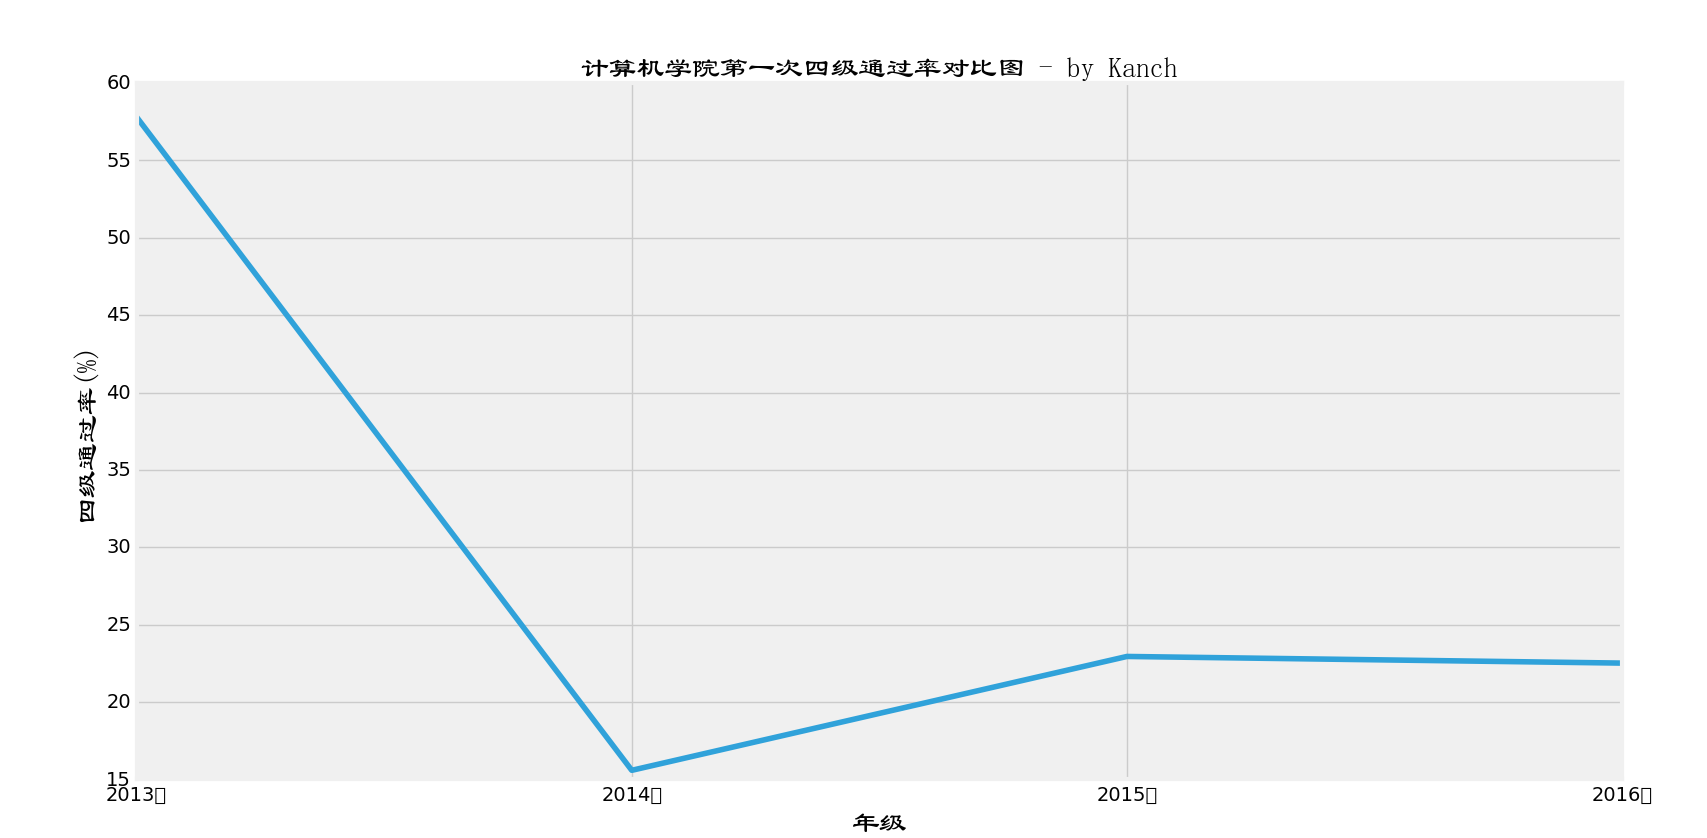
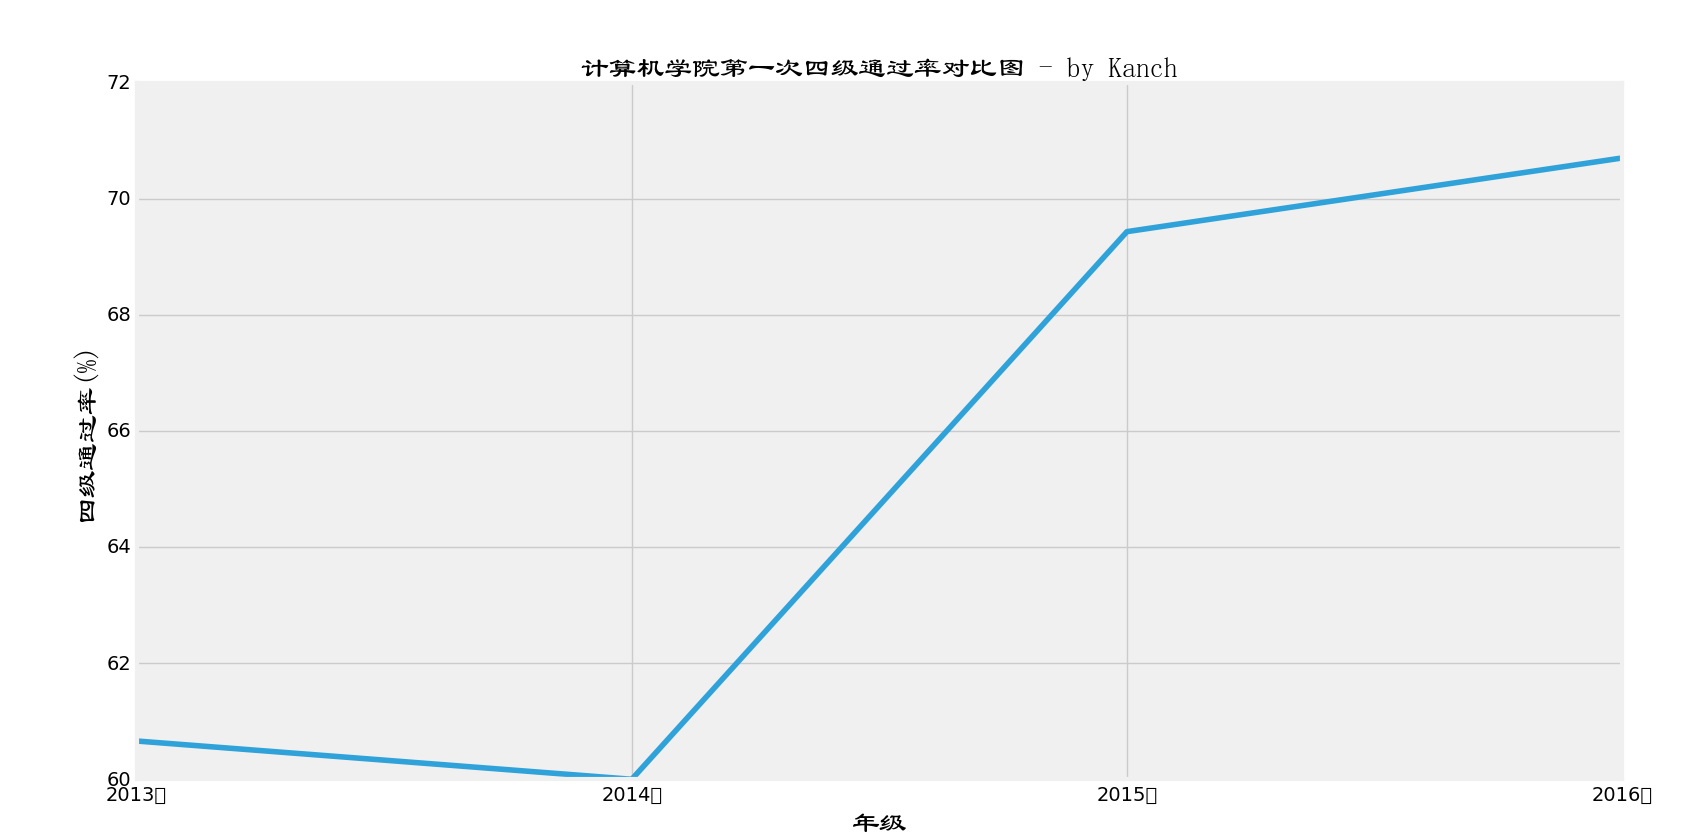
修正错误，修改README

diff --git a/CUIT-计算机CET4，6成绩查询-分析/analyze.py b/CUIT-计算机CET4，6成绩查询-分析/analyze.py
@@ -250,7 +250,7 @@ if True:
             #[考试时间,类型,缺考,总分,听力,阅读,写作,学号]
             if(len(cet4[1])) == 0 or cet4[0][4:6]!="12":
                 continue
-            passrate = str(round(len([x[3] for x in cet4[1] if int(x[3])>=425 and x[7][:4] == cet4[0][:4]])/len(cet4[1])*100,2))+"%"
+            passrate = str(round(len([x[3] for x in cet4[1] if int(x[3])>=425 and x[7][:4] == cet4[0][:4]])/len([x[3] for x in cet4[1] if x[7][:4] == cet4[0][:4]])*100,2))+"%"
             maxs = max(cet4[1],key=lambda x:x[3])[3]
             rv = [x[3] for x in cet4[1] if x[3] != "0"]
             mins = min(rv)

diff --git a/CUIT-计算机CET4，6成绩查询-分析/README.MD b/CUIT-计算机CET4，6成绩查询-分析/README.MD
@@ -2,6 +2,10 @@
 
 这里的代码实现了从学校教务处查询计算机学院所有学生（2015级）从入学到现在参加的4，6级考试的成绩，并用于分析。
 
+您可以在这里阅读从数据的获取到储存到分析。
+
+http://akakanch.com/archives/661
+
 
 ## 文件说明
 
@@ -25,15 +29,16 @@
 
 目测越到后面，过的人越来越少了。
 
-![2015级3次四级成绩变化图](https://github.com/ankanch/cuit-data-analysis/blob/master/%E8%AE%A1%E7%AE%97%E6%9C%BACET4%EF%BC%8C6%E6%88%90%E7%BB%A9%E6%9F%A5%E8%AF%A2-%E5%88%86%E6%9E%90/%E5%88%86%E6%9E%90%E7%BB%93%E6%9E%9C/2015%E7%BA%A73%E6%AC%A1%E5%85%AD%E7%BA%A7%E6%88%90%E7%BB%A9%E5%8F%98%E5%8C%96%E5%9B%BE.png)
+![2015级3次四级成绩变化图](https://github.com/ankanch/data-analysis/blob/master/CUIT-%E8%AE%A1%E7%AE%97%E6%9C%BACET4%EF%BC%8C6%E6%88%90%E7%BB%A9%E6%9F%A5%E8%AF%A2-%E5%88%86%E6%9E%90/%E5%88%86%E6%9E%90%E7%BB%93%E6%9E%9C/2015%E7%BA%A73%E6%AC%A1%E5%9B%9B%E7%BA%A7%E6%88%90%E7%BB%A9%E5%8F%98%E5%8C%96%E5%9B%BE.png)
 
-![2015级3次六级成绩变化图](https://github.com/ankanch/cuit-data-analysis/blob/master/%E8%AE%A1%E7%AE%97%E6%9C%BACET4%EF%BC%8C6%E6%88%90%E7%BB%A9%E6%9F%A5%E8%AF%A2-%E5%88%86%E6%9E%90/%E5%88%86%E6%9E%90%E7%BB%93%E6%9E%9C/2015%E7%BA%A73%E6%AC%A1%E5%9B%9B%E7%BA%A7%E6%88%90%E7%BB%A9%E5%8F%98%E5%8C%96%E5%9B%BE.png)
+![2015级3次六级成绩变化图](https://github.com/ankanch/data-analysis/blob/master/CUIT-%E8%AE%A1%E7%AE%97%E6%9C%BACET4%EF%BC%8C6%E6%88%90%E7%BB%A9%E6%9F%A5%E8%AF%A2-%E5%88%86%E6%9E%90/%E5%88%86%E6%9E%90%E7%BB%93%E6%9E%9C/2015%E7%BA%A73%E6%AC%A1%E5%85%AD%E7%BA%A7%E6%88%90%E7%BB%A9%E5%8F%98%E5%8C%96%E5%9B%BE.png)
 
 ![通过率变化图](https://github.com/ankanch/data-analysis/blob/master/CUIT-%E8%AE%A1%E7%AE%97%E6%9C%BACET4%EF%BC%8C6%E6%88%90%E7%BB%A9%E6%9F%A5%E8%AF%A2-%E5%88%86%E6%9E%90/%E5%88%86%E6%9E%90%E7%BB%93%E6%9E%9C/figure_1-3.png)
 
 ![最高分，最低分变化图](https://github.com/ankanch/data-analysis/blob/master/CUIT-%E8%AE%A1%E7%AE%97%E6%9C%BACET4%EF%BC%8C6%E6%88%90%E7%BB%A9%E6%9F%A5%E8%AF%A2-%E5%88%86%E6%9E%90/%E5%88%86%E6%9E%90%E7%BB%93%E6%9E%9C/figure_1-6.png)
 
-###### 更多分析即将添加
+
+
 
 ### 版本
 
